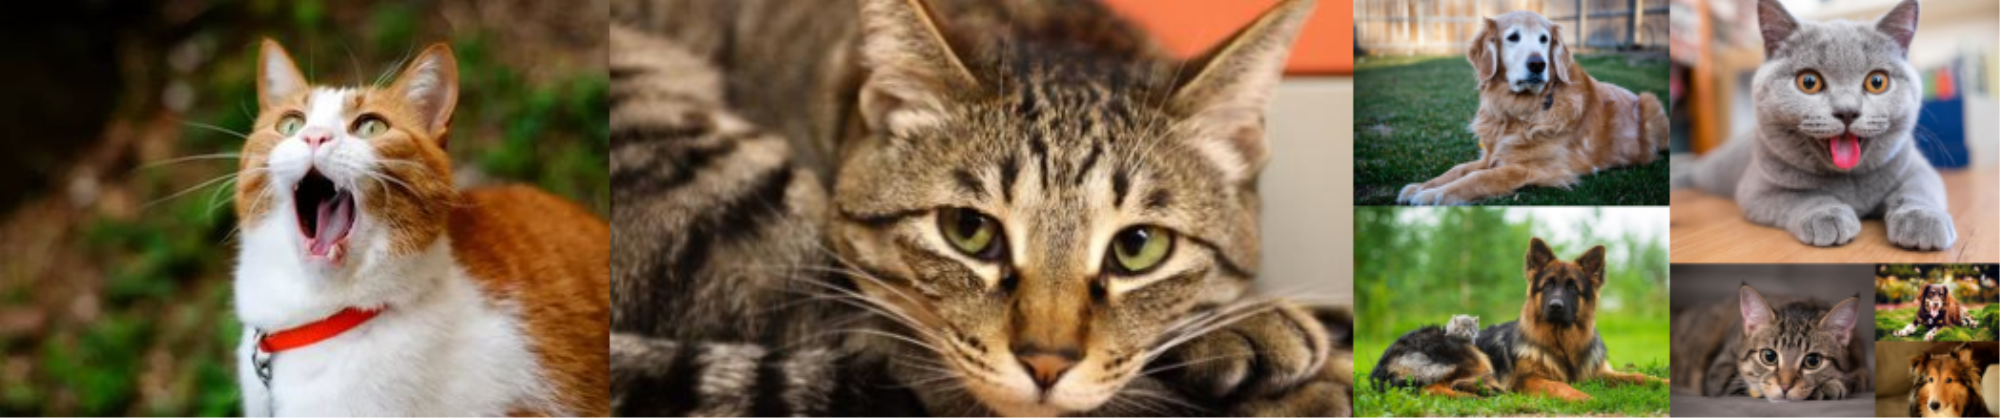
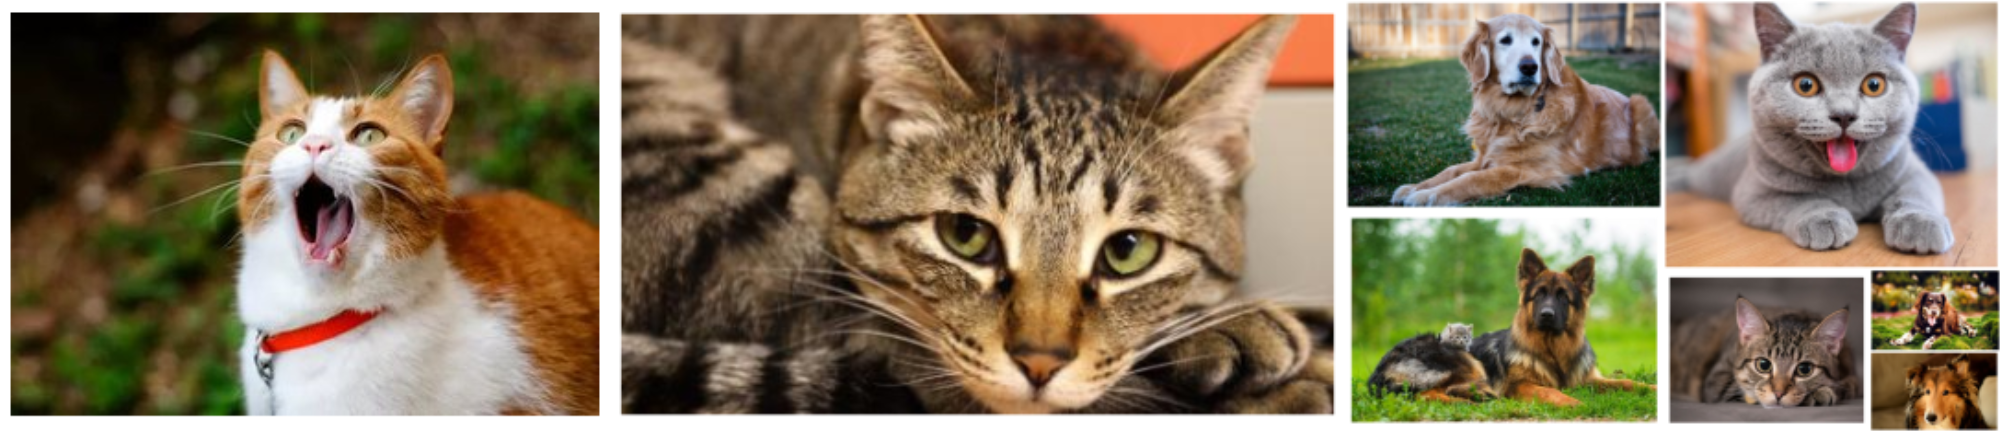
Задание 3

diff --git a/ShtafunTestTask/Program.cs b/ShtafunTestTask/Program.cs
@@ -22,18 +22,33 @@
                 Column col2 = new Column();
                 Column col3 = new Column();
                 Row row1 = new Row();
+                
+                //Параметры
+                ImgParam param = new ImgParam()
+                {
+                    Right = 5,
+                    Left = 6,
+                    Top = 7,
+                    Bottom = 8,
+                };
+                root.ImageAdd(img1, param);
+                param.IncrementParams();
+                root.ImageAdd(img2, param);
 
-                root.ImageAdd(img1);
-                root.ImageAdd(img2);
+                param.IncrementParams();
+                col1.ImageAdd(img5, param);
+                param.IncrementParams();
+                col1.ImageAdd(img6, param);
 
-                col1.ImageAdd(img5);
-                col1.ImageAdd(img6);
+                param.IncrementParams();
+                col2.ImageAdd(img3, param);
+                param.IncrementParams();
+                row1.ImageAdd(img4, param);
 
-                col2.ImageAdd(img3);
-                row1.ImageAdd(img4);
-
-                col3.ImageAdd(img7);
-                col3.ImageAdd(img8);
+                param.RandomParams();
+                col3.ImageAdd(img7, param);
+                param.RandomParams();
+                col3.ImageAdd(img8, param);
 
                 row1.ColumnAdd(col3);
                 col2.RowAdd(row1);

diff --git a/ShtafunTestTask/BaseElement.cs b/ShtafunTestTask/BaseElement.cs
@@ -1,21 +1,28 @@
-using System;
-using System.Drawing;
-
+using System.Drawing;
 
 namespace ShtafunTestTask
 {
     internal abstract class BaseElement
     {
         public List<Bitmap> Images { get; protected set; }
-        protected Bitmap StoryborardedImg { get; set; }
         public BaseElement() 
         {
             Images = new List<Bitmap>();
         }
-        public void ImageAdd(string filename)
+        public void ImageAdd(string filename, ImgParam param)
         {
             Bitmap image = (Bitmap)Bitmap.FromFile(filename);
+            image = ParamAdd(image, param);
             Images.Add(image);
+        }
+        private Bitmap ParamAdd(Bitmap image, ImgParam param)
+        {
+            int newWidth = image.Width + param.Right + param.Left;
+            int newHeight = image.Height + param.Top + param.Bottom;
+            Bitmap bitmap = new Bitmap(newWidth, newHeight);
+            Graphics graphics = Graphics.FromImage(bitmap);
+            graphics.DrawImage(image, param.Left, param.Top, image.Width, image.Height);
+            return bitmap;
         }
         public abstract Bitmap GetStoryboardImage();
     }

diff --git a/ShtafunTestTask/ImgParam.cs b/ShtafunTestTask/ImgParam.cs
@@ -1,0 +1,30 @@
+namespace ShtafunTestTask
+{
+    internal class ImgParam
+    {
+        public int Right { get; set; }
+        public int Left { get; set; }
+        public int Top { get; set; }
+        public int Bottom { get; set; }
+
+        //Увеличить все параметры на 1
+        public void IncrementParams()
+        {
+            Right++;
+            Left++;
+            Top++;
+            Bottom++;
+        }
+        //Сгенерировать рандомные параметры
+        public void RandomParams()
+        {
+            int min = 1;
+            int max = 20;
+            Random rnd = new Random();
+            Right = rnd.Next(min, max);
+            Left = rnd.Next(min, max);
+            Top = rnd.Next(min, max);
+            Bottom = rnd.Next(min, max);
+        }
+    }
+}

diff --git a/ShtafunTestTask/Row.cs b/ShtafunTestTask/Row.cs
@@ -1,7 +1,4 @@
-using System;
-using System.Drawing;
-using System.Linq;
-
+using System.Drawing;
 
 namespace ShtafunTestTask
 {
@@ -39,7 +36,6 @@ namespace ShtafunTestTask
                 graphics.DrawImage(i, localWidth, 0, newWidth, newHeight);
                 localWidth += newWidth;
             }
-            StoryborardedImg = bitmap;
             return bitmap;
         }
     }

diff --git a/ShtafunTestTask/Column.cs b/ShtafunTestTask/Column.cs
@@ -1,5 +1,4 @@
-using System;
-using System.Drawing;
+using System.Drawing;
 
 namespace ShtafunTestTask
 {
@@ -36,7 +35,6 @@ namespace ShtafunTestTask
                 graphics.DrawImage(i, 0, localHeight, newWidth, newHeight);
                 localHeight += newHeight;
             }
-            StoryborardedImg = bitmap;
             return bitmap;
         }
     }

diff --git a/ShtafunTestTask/ImagesTree.cs b/ShtafunTestTask/ImagesTree.cs
@@ -1,5 +1,4 @@
-using System;
-using System.Drawing;
+using System.Drawing;
 
 namespace ShtafunTestTask
 {
